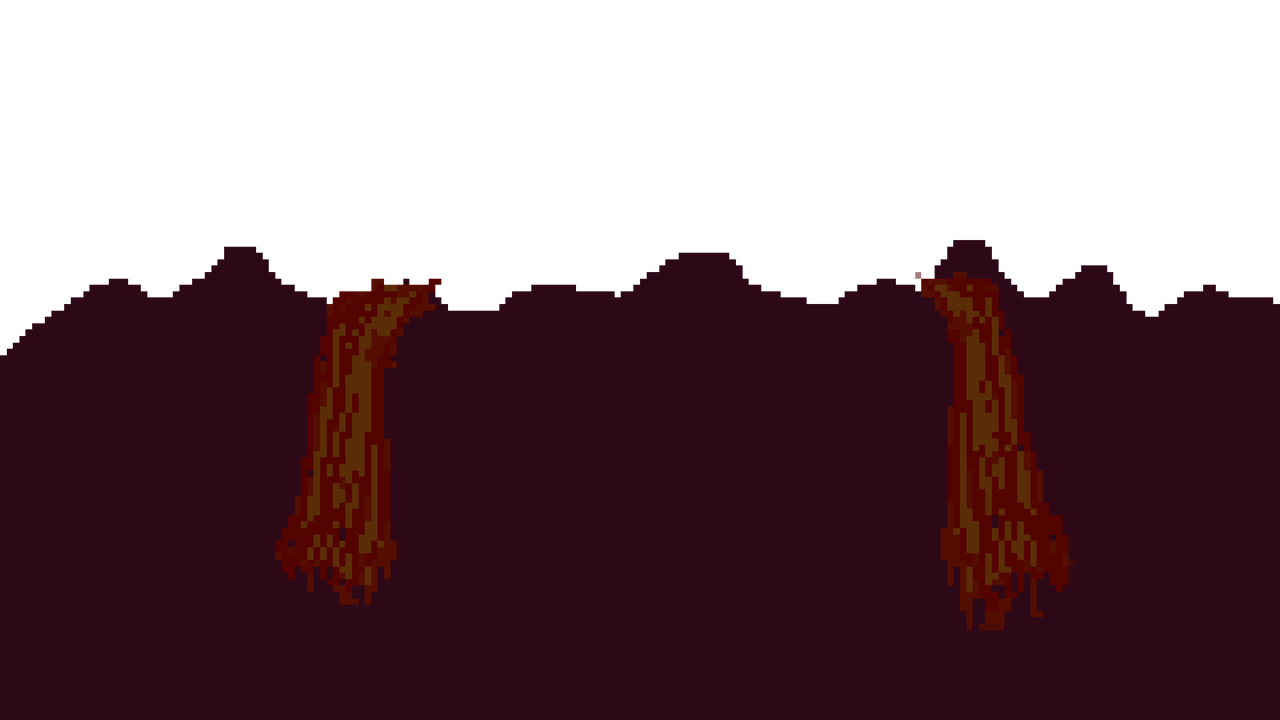
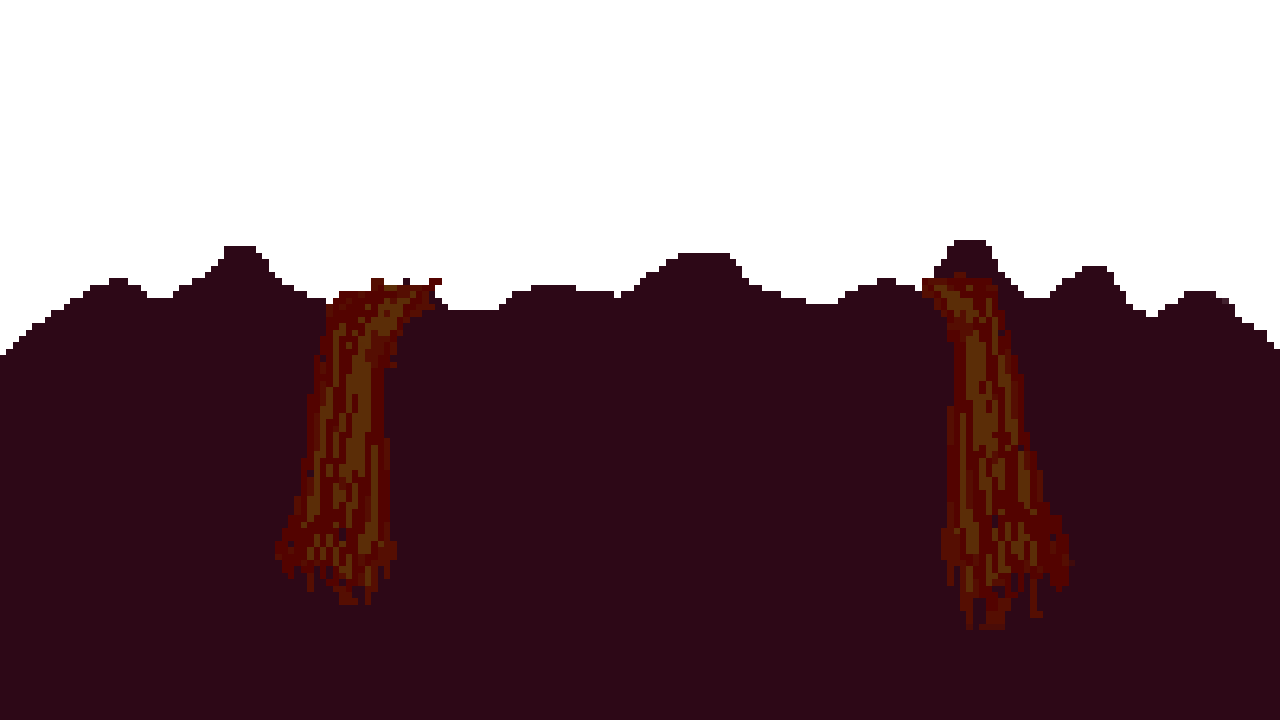
added background

Changed region(s): [[0.9375, 0.3972, 1.0, 0.4889]]

diff --git a/src/scenes/Play.js b/src/scenes/Play.js
@@ -6,10 +6,14 @@ class Play extends Phaser.Scene {
     preload(){
         //load images
         this.load.path ='./assets/';
-        this.load.image ('hell','Hell.png');
+        //this.load.image ('hell','Hell.png');
         this.load.spritesheet('gOver','GameOver.png',{frameWidth:game.config.width/2,framHeight:game.config.height/2,startFrame:0,endFrame:2});
+        this.load.image ('hell','BackgroundNoMove.png');
+        this.load.image ('hell2','BackgroundMountain.png');
+        this.load.spritesheet('gOver','GameOver.png',{frameWidth:game.config.width,framHeight:game.config.height,startFrame:0,endFrame:2});
         this.load.image('squareKirby', 'squareKirby.png');
         this.load.image('groundScroll', 'ground.png');
+        this.load.image('ground', 'BackgroundPlatform.png');
         // change platform image here
         this.load.image('platform', 'stairs.png');
         this.load.image('saltRing', 'saltRing.png');
@@ -27,6 +31,9 @@ class Play extends Phaser.Scene {
         // place tile
         this.hell = this.add.tileSprite (0,0,game.config.width,game.config.height,'hell').setOrigin(0,0);
         this.ring = this.physics.add.sprite(game.config.width*2, game.config.height/2-120, 'saltRing', 'side').setScale(SCALE);
+        this.hell2 = this.add.tileSprite (0,0,game.config.width,game.config.height,'hell2').setOrigin(0,0);
+        this.mainGround = this.add.tileSprite (0,0,game.config.width,game.config.height,'ground').setOrigin(0,0);
+        //this.ring = this.physics.add.sprite(500, game.config.height/2-120, 'saltRing', 'side').setScale(SCALE);
 
         //this.player = new Player(this, game.config.width/2, game.config.height/2, 'squareKirby').setOrigin(0.5, 0);
         
@@ -43,9 +50,10 @@ class Play extends Phaser.Scene {
         // make ground tiles group
         this.ground = this.add.group();
         for(let i = 0; i < game.config.width; i += tileSize) {
-            let groundTile = this.physics.add.sprite(i, game.config.height - tileSize, 'groundScroll', 'block').setScale(tileSize).setOrigin(0);
+            let groundTile = this.physics.add.sprite(i, game.config.height - tileSize*4.5, 'groundScroll', 'block').setScale(tileSize).setOrigin(0);
             groundTile.body.immovable = true;
             groundTile.body.allowGravity = false;
+            groundTile.visible = false;
             this.ground.add(groundTile);
         }
 
@@ -80,7 +88,6 @@ class Play extends Phaser.Scene {
         //this.physics.add.collider(this.player, this.ground); 
         this.physics.add.collider(this.ring, this.ground);
         this.physics.add.collider(this.player, this.platformGroup);
-        this.physics.add.collider(this.ring, this.platformGroup);
     }
     
     addPlatform(platformWidth, posX){
@@ -113,6 +120,8 @@ class Play extends Phaser.Scene {
         //make background scroll
         this.hell.tilePositionX += (this.SCROLL_SPEED);
         this.ring.x -= this.SCROLL_SPEED;
+        this.hell2.tilePositionX += (this.SCROLL_SPEED) + 1;
+        this.mainGround.tilePositionX += (this.SCROLL_SPEED) + 2;
 
         //game Over restarting choice
         if(this.gameOver && Phaser.Input.Keyboard.JustDown(keyR)){

diff --git a/src/scenes/Menu.js b/src/scenes/Menu.js
@@ -7,8 +7,14 @@ class Menu extends Phaser.Scene {
         this.load.audio('bgm', './assets/backgroundMusic.mp3');
     }
 
+    /* preload(){
+        //load images
+        this.load.path ='./assets/';
+        this.load.image ('hell','Hell.png');
+    } */
 
     create (){
+
         let menuConfig = {
             fontFamily: 'Courier',
             fontSize: '28px',
